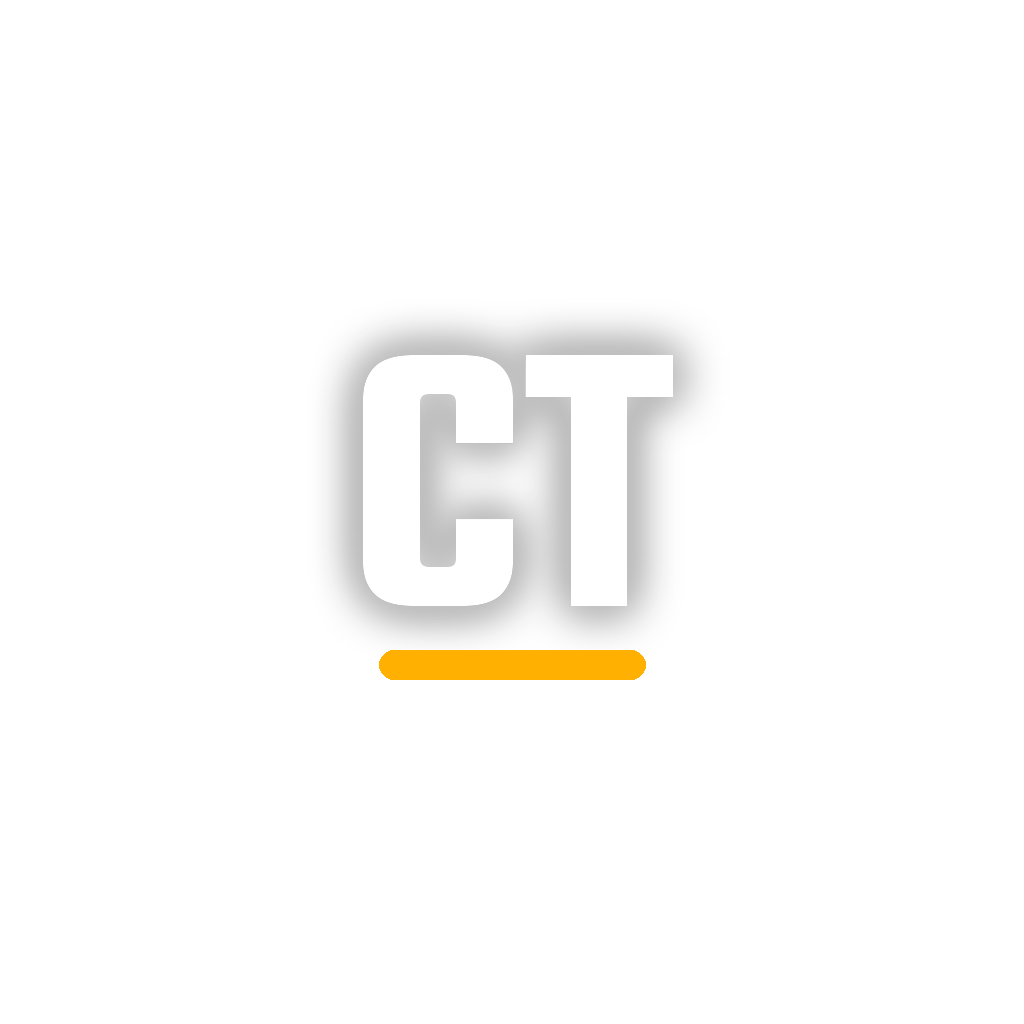
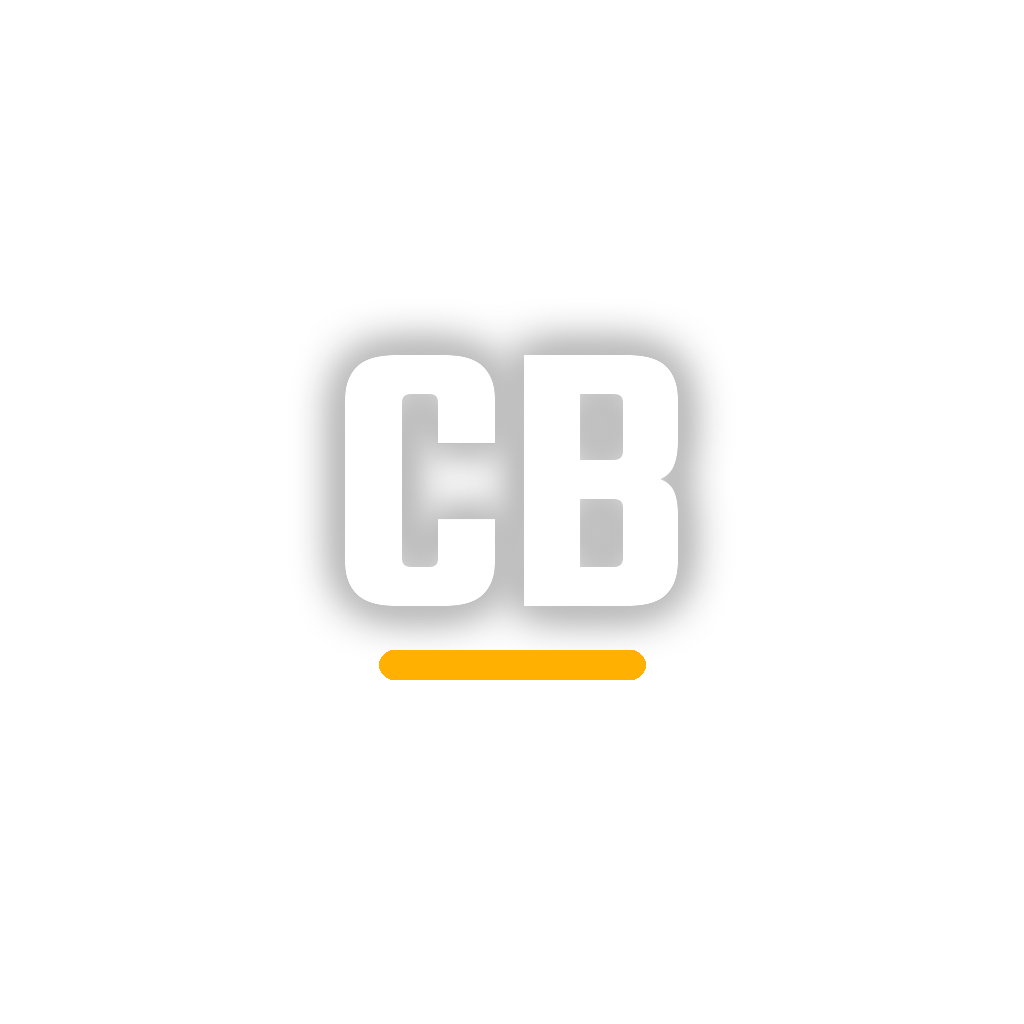
Novo nome: CronoBox
- Nome exibido em todo o app, web app, modo TV, política de privacidade,
  notificações, permissão da câmera, documentação e scripts.
- Identificadores: com.roinuj16.cronobox (iPhone e Android) e esquema de
  link cronobox://. Instalado como app novo no celular (sem atualizar o antigo).
- Ícones provisórios com "CB".
- Mantidos de propósito: a chave do armazenamento (treinos e ajustes de quem
  já usa continuam), o slug do projeto na Expo (crosstime-app, ligado ao EAS)
  e o nome do repositório.

Claude-Session: https://claude.ai/code/session_01KGG2HP42M2cwZTxcA5NT6d

Changed region(s): [[0.3125, 0.3438, 0.6875, 0.625]]

diff --git a/src/i18n/strings.ts b/src/i18n/strings.ts
@@ -220,14 +220,14 @@ const pt: Strings = {
     install: 'Instalar na tela de início',
     installIos: 'No Safari: toque em Compartilhar e depois em "Adicionar à Tela de Início". Abre em tela cheia e funciona sem internet.',
     installAndroid: 'No Chrome: toque no menu ⋮ e depois em "Instalar app". Abre em tela cheia e funciona sem internet.',
-    webNote: 'No navegador, deixe o CrossTimer aberto e a tela acesa durante o treino: com a tela bloqueada, o navegador pausa o timer.',
+    webNote: 'No navegador, deixe o CronoBox aberto e a tela acesa durante o treino: com a tela bloqueada, o navegador pausa o timer.',
     voiceSource: 'Tipo de voz',
     voiceRecorded: 'Coach (gravada)',
     voiceSystem: 'Do sistema',
     voiceSourceHint: 'A gravada soa igual em qualquer celular',
     voiceCount: 'Falar a contagem 3-2-1',
     voiceCountHint: 'No lugar dos bipes do fim de cada fase',
-    flashDenied: 'Sem acesso à câmera, a lanterna não pode piscar. Libere em Ajustes do sistema → CrossTimer → Câmera.',
+    flashDenied: 'Sem acesso à câmera, a lanterna não pode piscar. Libere em Ajustes do sistema → CronoBox → Câmera.',
   },
   voices: {
     title: 'Vozes',
@@ -240,7 +240,7 @@ const pt: Strings = {
   privacy: {
     banner: 'Usamos o Google Analytics para saber quais recursos são usados e corrigir erros. Sem nome, sem e-mail e sem o que você digita.',
     accept: 'Aceitar', decline: 'Recusar', policy: 'Política de privacidade',
-    toggle: 'Estatísticas de uso', toggleHint: 'Google Analytics, sem dados pessoais. Ajuda a melhorar o CrossTimer.',
+    toggle: 'Estatísticas de uso', toggleHint: 'Google Analytics, sem dados pessoais. Ajuda a melhorar o CronoBox.',
     title: 'Privacidade',
   },
   tv: {
@@ -259,7 +259,7 @@ const pt: Strings = {
     customize: 'Personalizar modo TV', customizeHint: 'Nome do box, logo e o treino do dia (WOD) na TV',
     setupCard: 'Deixe a TV com a cara do box', setupCardHint: 'Coloque o nome, o logo e o WOD do dia em Ajustes → Personalizar modo TV.',
     pair: {
-      title: 'Controle pelo celular', hint: 'Abra o CrossTimer no celular e aponte a câmera, ou digite o código',
+      title: 'Controle pelo celular', hint: 'Abra o CronoBox no celular e aponte a câmera, ou digite o código',
       connected: 'Celular do coach conectado', linked: 'conectada', section: 'TV do box', waiting: 'Aguardando a TV', offline: 'Sem conexão com a TV',
       tvOf: (code) => `TV ${code}`, connect: 'Conectar à TV', connectHint: 'Digite o código que aparece na TV do box',
       codeLabel: 'Código da TV', disconnect: 'Desconectar', invalid: 'Código inválido: são 6 letras e números, como K7Q-4M2',
@@ -422,14 +422,14 @@ const en: Strings = {
     install: 'Add to Home Screen',
     installIos: 'In Safari: tap Share, then "Add to Home Screen". It opens full screen and works offline.',
     installAndroid: 'In Chrome: tap the ⋮ menu, then "Install app". It opens full screen and works offline.',
-    webNote: 'In the browser, keep CrossTimer open and the screen on while you train: with the screen locked, the browser pauses the timer.',
+    webNote: 'In the browser, keep CronoBox open and the screen on while you train: with the screen locked, the browser pauses the timer.',
     voiceSource: 'Voice type',
     voiceRecorded: 'Coach (recorded)',
     voiceSystem: 'System',
     voiceSourceHint: 'The recorded voice sounds the same on every phone',
     voiceCount: 'Say the 3-2-1 countdown',
     voiceCountHint: 'Instead of the beeps at the end of each phase',
-    flashDenied: 'Without camera access the flashlight can’t blink. Allow it in system Settings → CrossTimer → Camera.',
+    flashDenied: 'Without camera access the flashlight can’t blink. Allow it in system Settings → CronoBox → Camera.',
   },
   voices: {
     title: 'Voices',
@@ -442,7 +442,7 @@ const en: Strings = {
   privacy: {
     banner: 'We use Google Analytics to learn which features are used and to fix errors. No name, no email and nothing you type.',
     accept: 'Accept', decline: 'Decline', policy: 'Privacy policy',
-    toggle: 'Usage statistics', toggleHint: 'Google Analytics, no personal data. Helps improve CrossTimer.',
+    toggle: 'Usage statistics', toggleHint: 'Google Analytics, no personal data. Helps improve CronoBox.',
     title: 'Privacy',
   },
   tv: {
@@ -461,7 +461,7 @@ const en: Strings = {
     customize: 'Customize TV mode', customizeHint: 'Box name, logo and the workout of the day (WOD) on the TV',
     setupCard: 'Make the TV look like your box', setupCardHint: 'Add the name, logo and today\'s WOD in Settings → Customize TV mode.',
     pair: {
-      title: 'Control from your phone', hint: 'Open CrossTimer on your phone and point the camera, or type the code',
+      title: 'Control from your phone', hint: 'Open CronoBox on your phone and point the camera, or type the code',
       connected: 'Coach phone connected', linked: 'connected', section: 'Box TV', waiting: 'Waiting for the TV', offline: 'No connection to the TV',
       tvOf: (code) => `TV ${code}`, connect: 'Connect to a TV', connectHint: 'Type the code shown on the box TV',
       codeLabel: 'TV code', disconnect: 'Disconnect', invalid: 'Invalid code: 6 letters and numbers, like K7Q-4M2',

diff --git a/src/i18n/privacy.ts b/src/i18n/privacy.ts
@@ -13,7 +13,7 @@ export const POLICY: Record<'pt' | 'en', { updated: string; sections: PolicySect
       { title: 'Estatísticas de uso (opcional)', body: 'Se você aceitar, usamos o Google Analytics para contar o uso: telas abertas, treinos iniciados e concluídos (modo e duração), uso do modo TV e do pareamento, e erros do app. O Google recebe também dados técnicos, como tipo de aparelho, navegador e região aproximada. Não enviamos nome, e-mail, nome do box, WOD nem nada do que você digita.' },
       { title: 'Como recusar ou mudar de ideia', body: 'Você pode recusar no aviso ou desligar a qualquer momento em Ajustes → Estatísticas de uso. Recusando, nenhum script do Google Analytics é carregado.' },
       { title: 'Por quanto tempo', body: 'Os dados das estatísticas ficam no Google Analytics pelo prazo de retenção configurado no projeto (padrão de 2 meses). As salas de pareamento guardam só o último estado do timer de cada TV.' },
-      { title: 'Seus direitos (LGPD)', body: 'Você pode pedir informações, correção ou exclusão de dados ligados ao seu uso pelos canais de contato do CrossTimer.' },
+      { title: 'Seus direitos (LGPD)', body: 'Você pode pedir informações, correção ou exclusão de dados ligados ao seu uso pelos canais de contato do CronoBox.' },
     ],
   },
   en: {
@@ -24,7 +24,7 @@ export const POLICY: Record<'pt' | 'en', { updated: string; sections: PolicySect
       { title: 'Usage statistics (optional)', body: 'If you accept, we use Google Analytics to count usage: screens opened, workouts started and completed (mode and duration), TV mode and pairing use, and app errors. Google also receives technical data such as device type, browser and approximate region. We never send your name, email, box name, WOD or anything you type.' },
       { title: 'How to decline or change your mind', body: 'Decline in the notice or turn it off anytime in Settings → Usage statistics. If you decline, no Google Analytics script is loaded.' },
       { title: 'How long', body: 'Statistics stay in Google Analytics for the retention period set in the project (2 months by default). Pairing rooms keep only the latest timer state of each TV.' },
-      { title: 'Your rights', body: 'You can ask for information, correction or deletion of data related to your use through CrossTimer\'s contact channels.' },
+      { title: 'Your rights', body: 'You can ask for information, correction or deletion of data related to your use through CronoBox\'s contact channels.' },
     ],
   },
 };

diff --git a/public/index.html b/public/index.html
@@ -13,7 +13,7 @@
     <meta name="apple-mobile-web-app-capable" content="yes" />
     <meta name="mobile-web-app-capable" content="yes" />
     <meta name="apple-mobile-web-app-status-bar-style" content="black-translucent" />
-    <meta name="apple-mobile-web-app-title" content="CrossTimer" />
+    <meta name="apple-mobile-web-app-title" content="CronoBox" />
     <style id="expo-reset">
       html, body { height: 100%; background: #0B0B0B; }
       body { overflow: hidden; overscroll-behavior: none; -webkit-tap-highlight-color: transparent; }
@@ -22,7 +22,7 @@
   </head>
 
   <body>
-    <noscript>O CrossTimer precisa de JavaScript ligado.</noscript>
+    <noscript>O CronoBox precisa de JavaScript ligado.</noscript>
     <div id="root"></div>
     <script>
       // Funciona sem internet depois do primeiro acesso. Fora do servidor de desenvolvimento.

diff --git a/public/sw.js b/public/sw.js
@@ -1,11 +1,11 @@
 /*
- * Service worker do CrossTimer: deixa o web app abrir e funcionar sem internet.
+ * Service worker do CronoBox: deixa o web app abrir e funcionar sem internet.
  * - Páginas: tenta a rede primeiro (pega a versão nova), sem rede usa a última guardada.
  * - Arquivos (código, fontes, sons, voz): usa o guardado e só baixa o que falta.
  *   Os arquivos de código têm o hash no nome, então uma versão nova nunca reaproveita um velho.
  * Troque VERSION para descartar tudo o que está guardado.
  */
-const VERSION = 'crosstimer-v1';
+const VERSION = 'cronobox-v1';
 
 self.addEventListener('install', (event) => {
   event.waitUntil(caches.open(VERSION).then((c) => c.addAll(['/', '/manifest.json', '/icons/icon-192.png'])).then(() => self.skipWaiting()));

diff --git a/src/app/tv.tsx b/src/app/tv.tsx
@@ -147,7 +147,7 @@ export default function TvScreen() {
     return (
       <TvTemplate
         divider
-        header={<TvHeader logo={S.tvLogo || undefined} title={box || 'CrossTimer'} strong right={clockNode} u={u} />}
+        header={<TvHeader logo={S.tvLogo || undefined} title={box || 'CronoBox'} strong right={clockNode} u={u} />}
         main={
           <View style={{ flex: 1, paddingVertical: 40 * u, paddingLeft: 48 * u, paddingRight: 40 * u }}>
             <TvIdle

diff --git a/src/services/background.ts b/src/services/background.ts
@@ -65,7 +65,7 @@ export async function scheduleAlerts(alerts: Alert[]) {
           title: a.title,
           body: a.body,
           sound: withSound ? (a.kind === 'done' ? 'done.wav' : 'phase_beep.wav') : false,
-          data: { crosstimer: true },
+          data: { cronobox: true },
         },
         trigger: { type: Notifications.SchedulableTriggerInputTypes.DATE, date: a.at, channelId: CHANNEL },
       });

diff --git a/src/store/storage.ts b/src/store/storage.ts
@@ -5,6 +5,7 @@ import Storage from 'expo-sqlite/kv-store';
  * Leitura síncrona na inicialização, para a tela já abrir com os dados do usuário;
  * escrita adiada (debounce) para não gravar a cada décimo de segundo.
  */
+// Chave mantida do nome antigo (CrossTimer) para não perder treinos e ajustes de quem já usa.
 const KEY = 'crosstimer.state.v1';
 
 export function loadJSON<T>(): T | null {

diff --git a/src/store/storage.web.ts b/src/store/storage.web.ts
@@ -2,6 +2,7 @@
  * Versão web do armazenamento: usa o localStorage do navegador.
  * (No celular vale storage.ts, com SQLite.) Útil para pré-visualizar o app no navegador.
  */
+// Chave mantida do nome antigo (CrossTimer) para não perder treinos e ajustes de quem já usa.
 const KEY = 'crosstimer.state.v1';
 
 export function loadJSON<T>(): T | null {

diff --git a/src/hooks/useFeedback.ts b/src/hooks/useFeedback.ts
@@ -10,7 +10,7 @@ import { useRemote } from '@/services/remote';
 import { listVoices } from '@/services/voices';
 import { useApp } from '@/store/useApp';
 
-const KEEP_AWAKE_TAG = 'crosstimer-workout';
+const KEEP_AWAKE_TAG = 'cronobox-workout';
 
 /**
  * Liga o timer ao aparelho: configura o áudio, mantém a tela acesa durante o treino

diff --git a/src/core/engine.ts b/src/core/engine.ts
@@ -1,5 +1,5 @@
 /**
- * CrossTimer — motor do timer.
+ * CronoBox — motor do timer.
  *
  * Só cálculo: sem React, sem áudio, sem armazenamento. Portado do protótipo web.
  *

diff --git a/scripts/make-icons.py b/scripts/make-icons.py
@@ -1,4 +1,4 @@
-"""Ícones provisórios do CrossTimer no estilo placar de LED (app, web app e favicon).
+"""Ícones provisórios do CronoBox no estilo placar de LED (app, web app e favicon).
 
 Rodar de novo: python3 scripts/make-icons.py   (precisa de Pillow)
 O ícone final entra na fase de publicação; este serve para instalar e testar.
@@ -12,11 +12,11 @@ BG, GREEN, AMBER = (11, 11, 11), (49, 242, 107), (255, 176, 0)
 
 
 def art(size, scale=1.0, bg=True, color=GREEN):
-    """Desenha 'CT' em LED verde com brilho e uma barra âmbar; scale < 1 deixa margem (ícone adaptável)."""
+    """Desenha 'CB' (CronoBox) em LED verde com brilho e uma barra âmbar; scale < 1 deixa margem (ícone adaptável)."""
     img = Image.new('RGBA', (size, size), BG + (255,) if bg else (0, 0, 0, 0))
     s = size * scale
     font = ImageFont.truetype(FONT, int(s * 0.62))
-    text = 'CT'
+    text = 'CB'
     box = font.getbbox(text)
     w, h = box[2] - box[0], box[3] - box[1]
     x = (size - w) / 2 - box[0]

diff --git a/scripts/make-sounds.py b/scripts/make-sounds.py
@@ -1,4 +1,4 @@
-"""Gera os sons do CrossTimer (WAV mono 16 bits, 22,05 kHz) em assets/sounds/.
+"""Gera os sons do CronoBox (WAV mono 16 bits, 22,05 kHz) em assets/sounds/.
 
 Todos os sons são sintetizados aqui — nenhum arquivo de terceiros.
 Rodar de novo: python3 scripts/make-sounds.py
